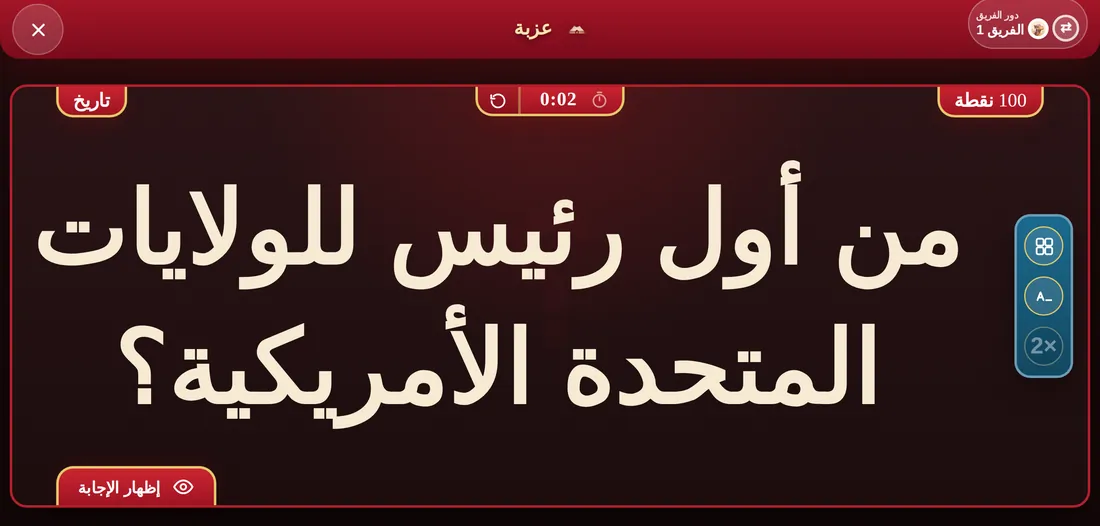
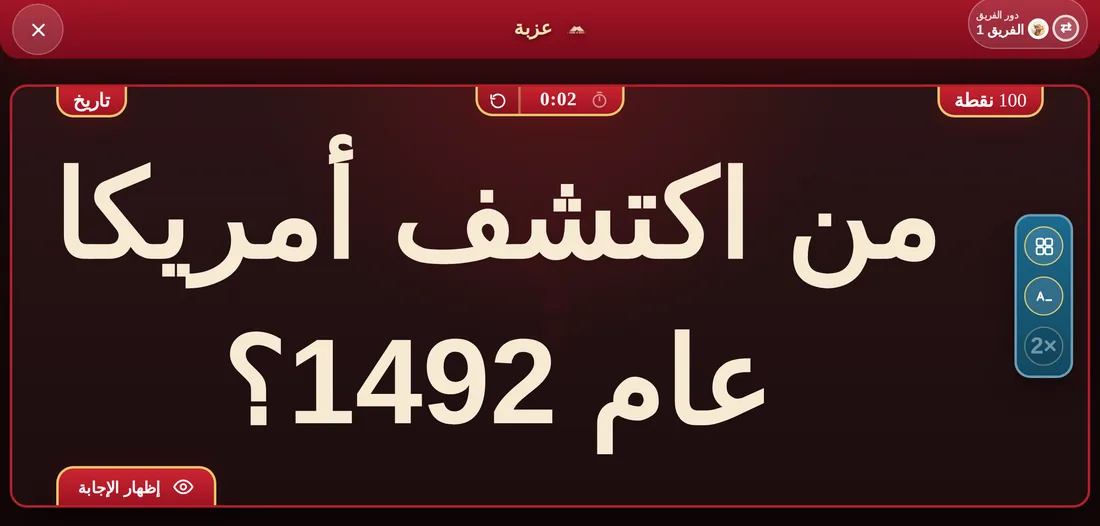
Landing page: game screens now show the CURRENT covers, and fix the @ handles
The captured screens were taken with Firebase blocked, so the game fell back
to the bundled assets/img covers — the old artwork. Every screen on the page
therefore disagreed with the grid right above it. The capture now swaps in the
published covers before shooting, so the board and picker show exactly the
artwork players see.

Also: "@izzbahgame" rendered as "izzbahgame@" because @ is a bidi-neutral
character and an RTL paragraph pushes it to the end. unicode-bidi:plaintext
lets each handle take direction from its first strong character.

Claude-Session: https://claude.ai/code/session_01Kzeetd7pnUyQnYaeMeHMkz

Changed region(s): [[0.0309, 0.2433, 0.8964, 0.5475], [0.0927, 0.5779, 0.8036, 0.8821]]

diff --git a/preview/index.html b/preview/index.html
@@ -447,7 +447,7 @@ body.admin-on [data-edit].dirty{outline-color:#7ee0a0}
 .soc:hover{transform:translateY(-4px); border-color:rgba(231,195,115,.5); background:rgba(231,195,115,.10)}
 .soc svg{width:24px; height:24px; flex:none; fill:currentColor}
 .soc b{display:block; font:800 15px var(--body); line-height:1.3}
-.soc span{display:block; font:700 12px var(--body); color:var(--muted)}
+.soc span{display:block; font:700 12px var(--body); color:var(--muted); unicode-bidi:plaintext}
 .soc.ig svg{color:#e1789b} .soc.tt svg{color:#6fe3dd} .soc.wa svg{color:#7ee0a0} .soc.ml svg{color:var(--gold)}
 
 /* ── footer ───────────────────────────────────────────────── */
